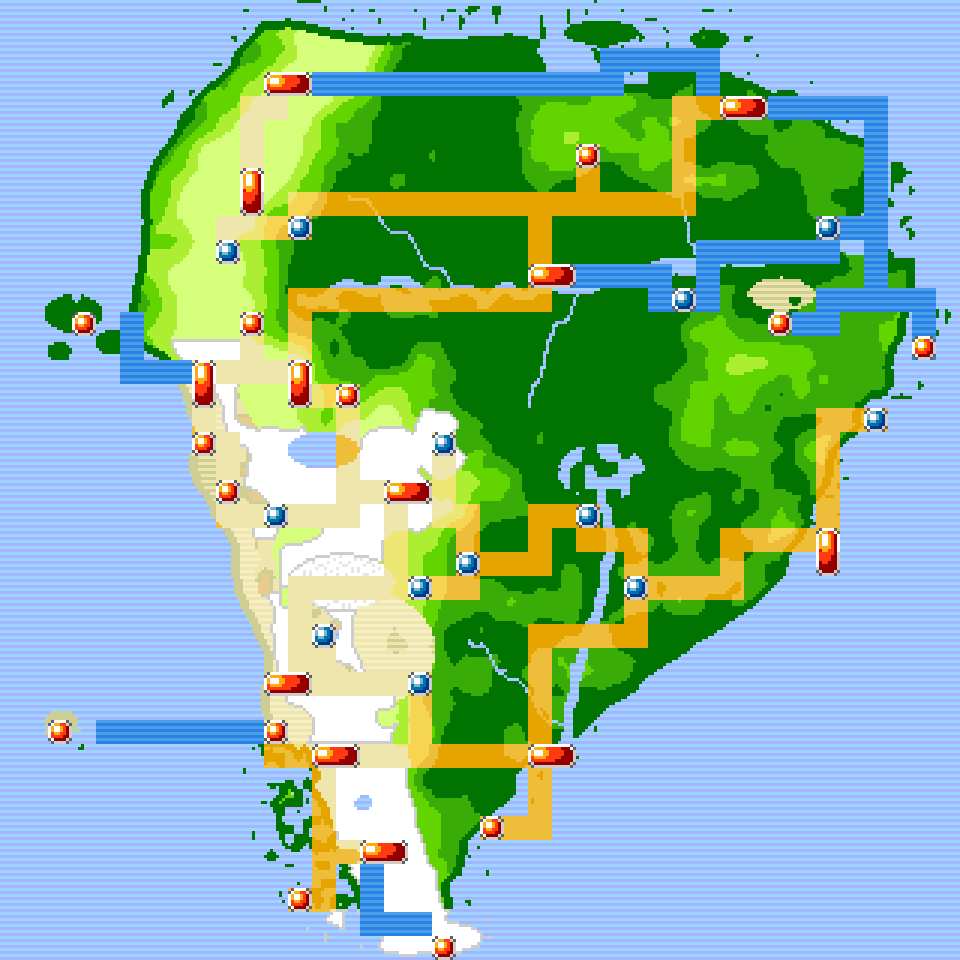
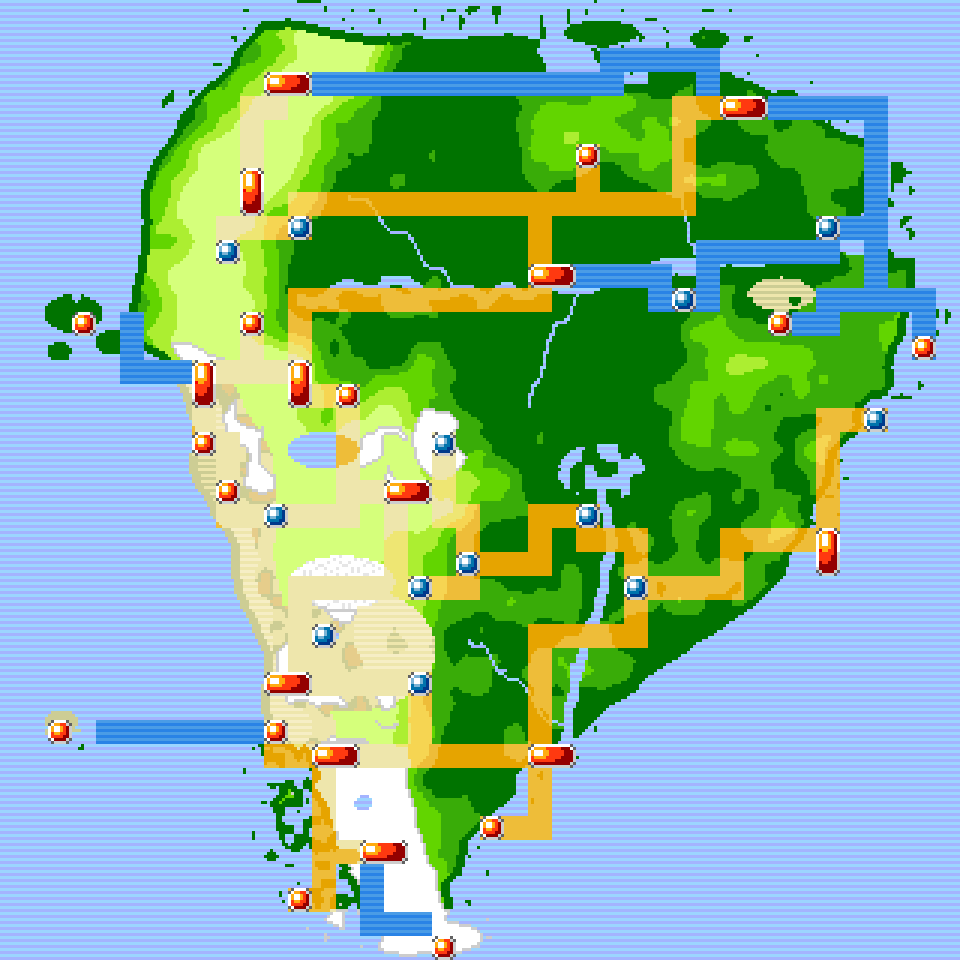
Regiokaart schets 2: minder sneeuw op de altiplano

diff --git a/tools/concept/regiokaart.py b/tools/concept/regiokaart.py
@@ -102,7 +102,7 @@ desert = land & (cy > 15.5) & (cy < 31) & (cx < ridge - 0.8 + (n - 0.5) * 2)
 desert |= land & ellipse(14.5, 27, 3.6, 2.6)                                       # Atacama-hoogland/Lípez
 desert |= land & ellipse(32.5, 12.2, 1.4, 0.7) & (fine > 0.3)                     # Lençóis Maranhenses
 biome[desert] = 2
-snow = land & (((lvl >= 4) & (cy > 14) & (cy < 31) & (n > 0.5))
+snow = land & (((lvl >= 4) & (cy > 14) & (cy < 31) & (hills > 0.6) & (n > 0.5))
                | ((cy > 31) & (lvl >= 3)) | (cy > 37.8)
                | (ellipse(18.3, 18.3, 1.2, 1.6) & (lvl >= 2))                      # Cordillera Real
                | (ellipse(13.4, 28.3, 0.7, 0.5)))                                 # vulkanen/sneeuw van Lípez
